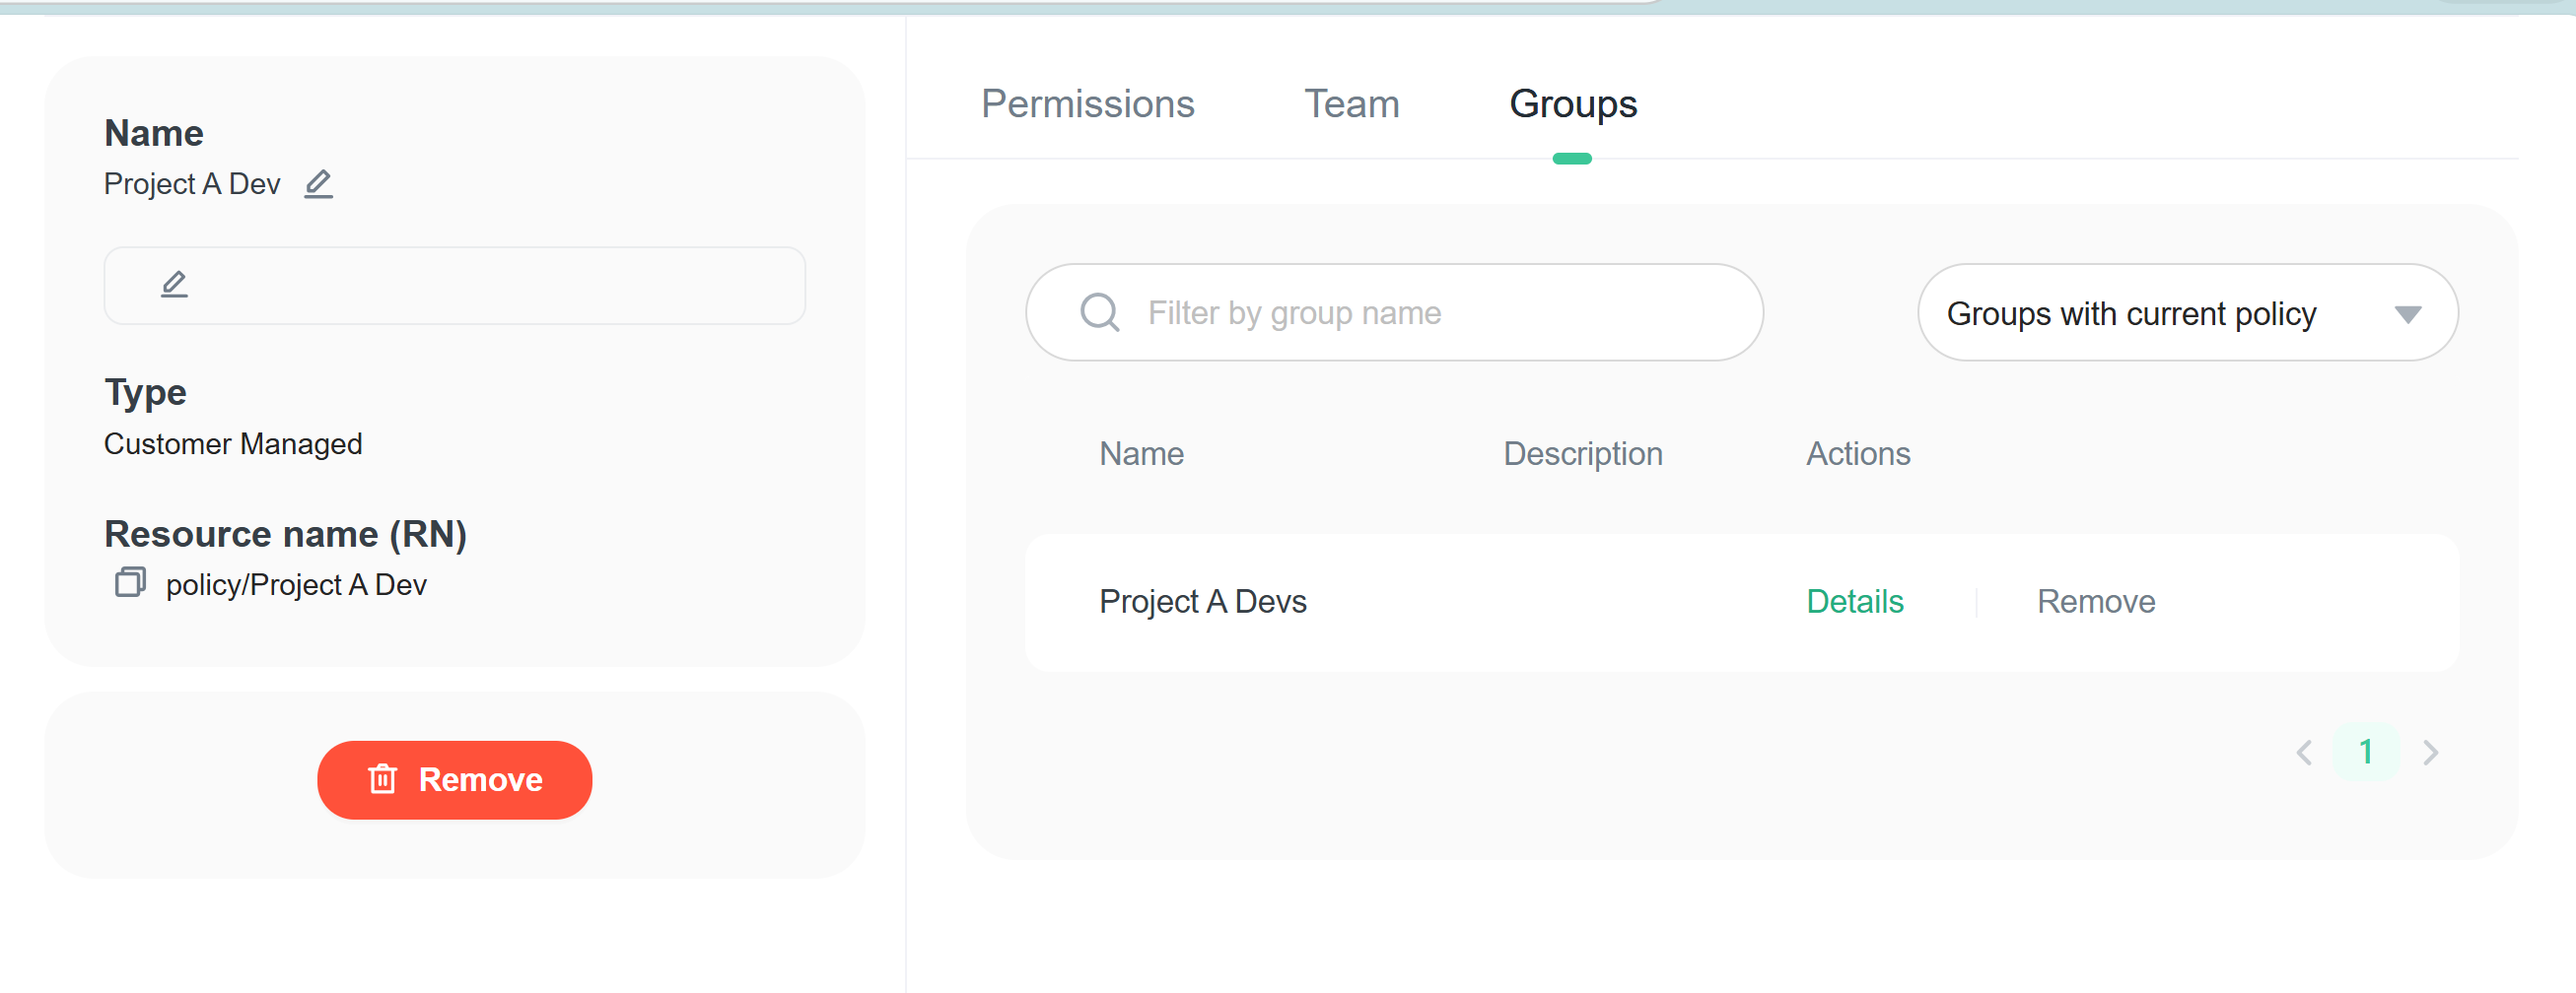
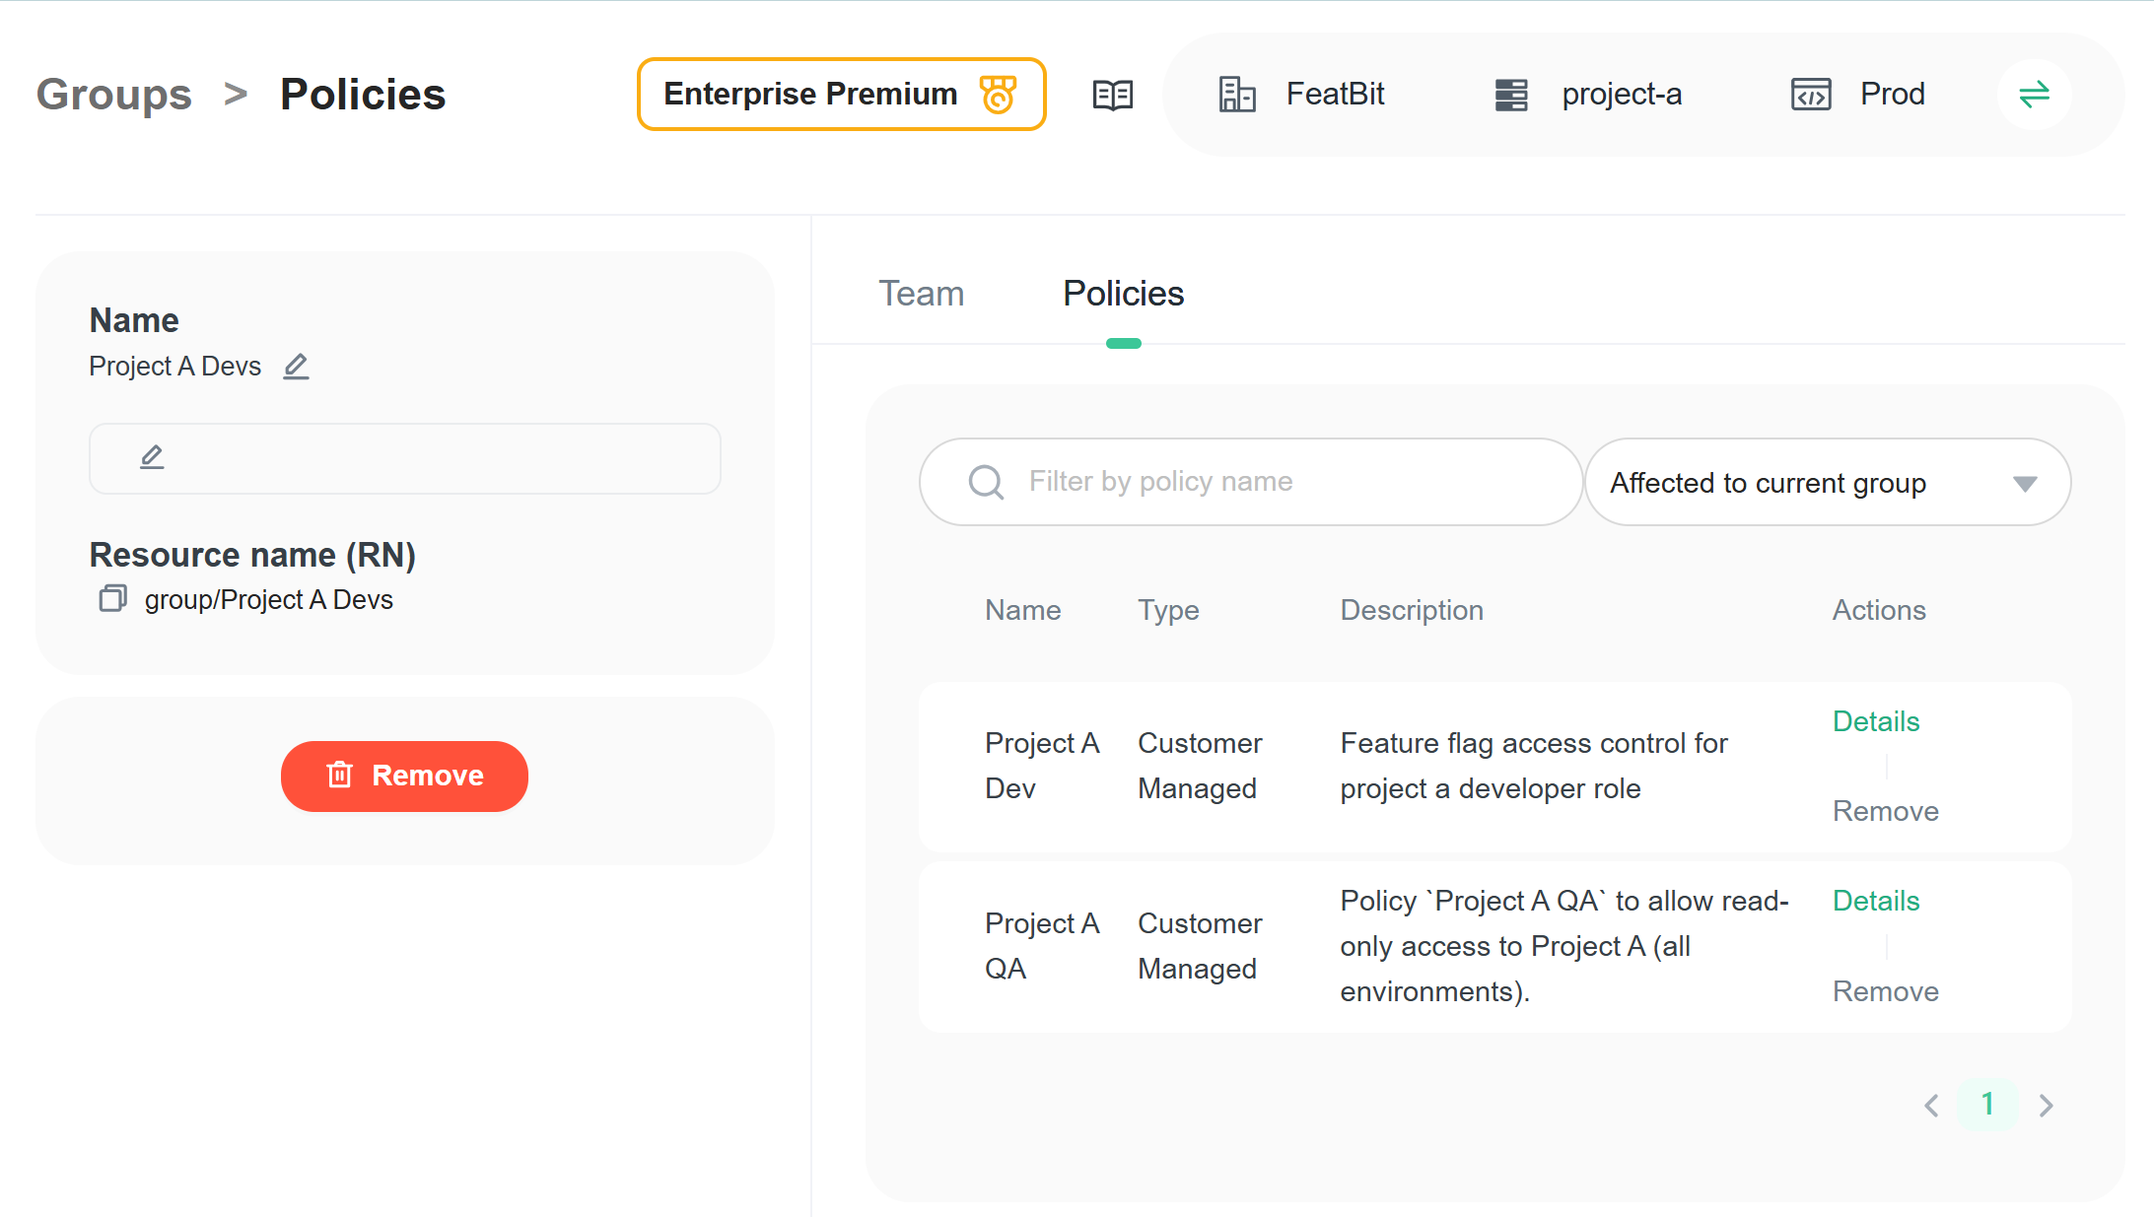
Update RBAC documentation to clarify policy creation and permissions for Project A Dev and Project A External Dev

diff --git a/pages/iam/rbac.md b/pages/iam/rbac.md
@@ -272,13 +272,17 @@ NOTE: Be sure that all members in `Project A PMs` groups have removed their defa
 
 ### Policy `Project A Dev`
 
+Different from the policies above, this subsection shows how to combine two policies to meet the requirements for developers in `Project A`.
+
+- Policy `Project A QA` (created above) to allow read-only access to Project A (all environments). This policy already meets the read-only access requirement for the `prod` environment.
+- Policy `Project A Dev`:
+    - Full access to `dev` environment.
+    - Allow operate a specific feature flag in `prod` environment.
+
+Create the policy `Project A Dev` as below:
+
 1. Create a policy named `Project A Dev`. Resource Name (RN) is `policy/Project A Dev`.
-2. Add a permission for project level access:
-    - Control Level: `Project`
-    - Resource Selector: `project/project-a`
-    - Allow or Deny: `Allow`
-    - Actions: `CanAccessProject`
-3. Add a permission for feature-flag level access in `dev` environment:
+2. Add a permission for feature-flag level access in `dev` environment:
     - Control Level: `Feature Flag`
     - Resource Selector/Editor: `project/project-a:env/dev:flag/*`
         - Project: `project-a`
@@ -286,7 +290,7 @@ NOTE: Be sure that all members in `Project A PMs` groups have removed their defa
         - Feature Flag: `*`
     - Allow or Deny: `Allow`
     - Actions: all actions for feature flags.
-4. Add a permission for specific feature-flag in `prod` environment:
+3. Add a permission for specific feature-flag in `prod` environment:
     - Control Level: `Feature Flag`
     - Resource Selector/Editor: `project/project-a:env/prod:flag/*`
         - Project: `project-a`
@@ -297,14 +301,17 @@ NOTE: Be sure that all members in `Project A PMs` groups have removed their defa
 
 ![](../iam/assets/rbac/example-dev-001.png)
 
-
-5. Save the policy and assign it to group `Project A Devs`.
+5. Save the policy.
+6. Assign both policies `Project A QA` and `Project A Dev` to group `Project A Devs`.
 
 ![](../iam/assets/rbac/example-dev-002.png)
 
-Note: Be sure that all members in `Project A Devs` groups have removed their default policy assignments, otherwise they may still have more permissions than expected.
+This combination may not satisfy your feeling caused by `Project A QA` name, but it shows you another way to achieve complex access control requirements by combining multiple policies.
+
 
 ### Policy `Project A External Dev`
+
+We create all permissions in a single policy for external developers.
 
 1. Create a policy named `Project A External Dev`. Resource Name (RN) is `policy/Project A External Dev`.
 2. Add a permission for project level access:
@@ -312,10 +319,10 @@ Note: Be sure that all members in `Project A Devs` groups have removed their def
     - Resource Selector: `project/project-a`
     - Allow or Deny: `Allow`
     - Actions: `CanAccessProject`
-3. Add a permission for environment level access in `prod` environment:
+3. Add a permission for environment level access in `dev` environment:
     - Control Level: `Environment`
-    - Resource Selector/Editor: `project/project-a:env/prod`
-    - Allow or Deny: `Deny`
+    - Resource Selector/Editor: `project/project-a:env/dev`
+    - Allow or Deny: `Allow`
     - Actions: `CanAccessEnv`
 4. Add a permission for feature-flag level access in `dev` environment:
     - Control Level: `Feature Flag`
